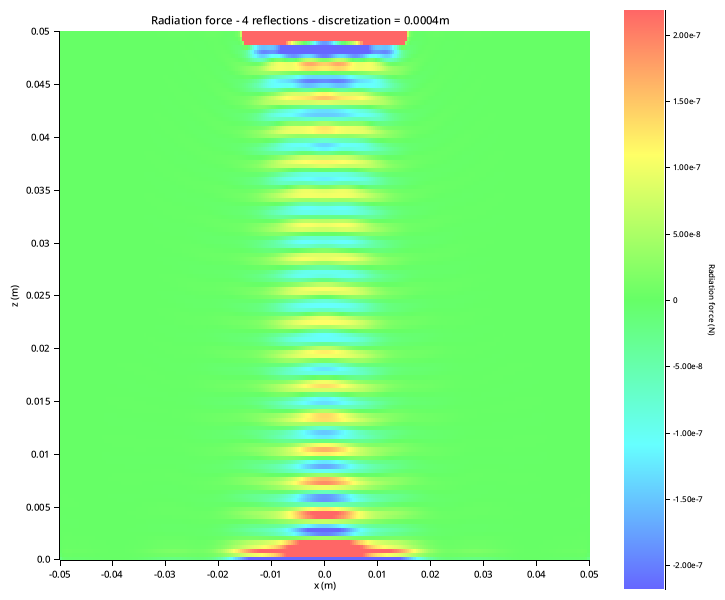
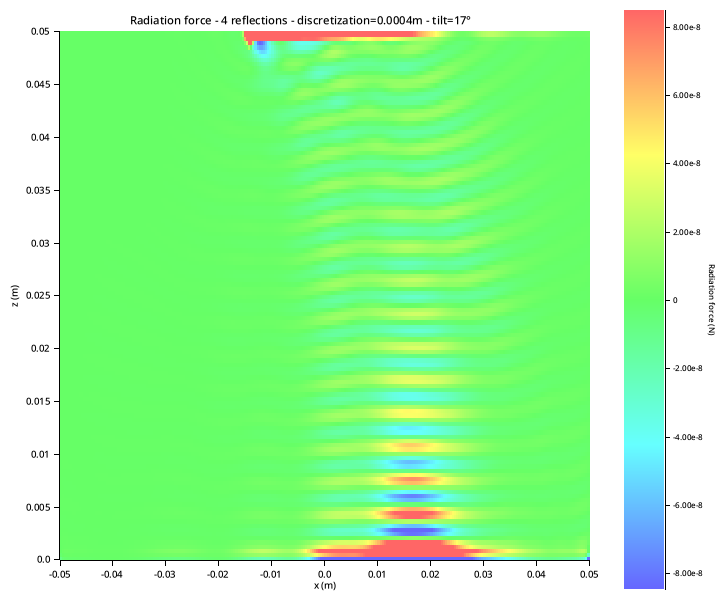
+transducer inclination

diff --git a/src/matrix_method/pressure_field.rs b/src/matrix_method/pressure_field.rs
@@ -1,4 +1,4 @@
-use ndarray::{Array1, Array2};
+use ndarray::{array, Array1, Array2};
 
 use super::*;
 
@@ -18,6 +18,7 @@ pub fn compute_pressure_field(simulation_params: impl Into<SimulationParameters>
         transducer_area,
         hole_area,
         u_0,
+        inclination,
         reflector_area,
         omega,
         wavenumber,
@@ -25,6 +26,7 @@ pub fn compute_pressure_field(simulation_params: impl Into<SimulationParameters>
         d,
         ..
     }: SimulationParameters = simulation_params.into();
+    let inclination = inclination * PI / 180.0; // convert deg to rad
 
     // Array indices
     let N: usize = ((2.0 * R) / disc) as usize;
@@ -35,7 +37,9 @@ pub fn compute_pressure_field(simulation_params: impl Into<SimulationParameters>
     // Creation of grid, indices, and distance arrays
     let x: Array1<f64> = Array1::linspace(x_min, x_max, L);
     let z: Array1<f64> = Array1::linspace(z_min, z_max, Z);
-    let transducer: Array1<f64> = Array1::linspace(-R, R, N);
+    let transducer: Array1<(f64, f64)> = Array1::linspace(-R, R, N)
+        .map(|x| rotation_matrix(inclination).dot(&array![[*x], [0.0]]))
+        .map(|x| (x[[0, 0]], x[[1, 0]] + R * inclination.abs().sin() + z_max));
 
     // Create zeroed distance arrays in memory
     let mut r_nm: Array2<f64> = Array2::zeros((N, M));
@@ -47,7 +51,8 @@ pub fn compute_pressure_field(simulation_params: impl Into<SimulationParameters>
         let mut q = 0;
         for j in 0..L {
             for k in 0..Z {
-                r_nm[[i, q]] = ((transducer[i] - x[j]).powi(2) + (z_max - z[k]).powi(2)).sqrt();
+                let (tx, tz) = transducer[i];
+                r_nm[[i, q]] = ((tx - x[j]).powi(2) + (tz - z[k]).powi(2)).sqrt();
                 q += 1;
             }
         }
@@ -67,7 +72,8 @@ pub fn compute_pressure_field(simulation_params: impl Into<SimulationParameters>
     // Calculate distance array r_in
     for i in 0..N {
         for j in 0..L {
-            r_in[[i, j]] = ((transducer[i] - x[j]).powi(2) + (z_max - z_min).powi(2)).sqrt();
+            let (tx, tz) = transducer[i];
+            r_in[[i, j]] = ((tx - x[j]).powi(2) + (tz - z_min).powi(2)).sqrt();
         }
     }
 
@@ -137,6 +143,12 @@ pub fn compute_pressure_field(simulation_params: impl Into<SimulationParameters>
         .expect("Failed to reshape pressure field")
         .t()
         .to_owned()
+}
+
+/* HELPERS */
+
+fn rotation_matrix(theta: f64) -> Array2<f64> {
+    array![[theta.cos(), -theta.sin()], [theta.sin(), theta.cos()]]
 }
 
 /// list all the transfer matrices necessary for the nth reflection of the wave and return their product

diff --git a/src/plot/field.rs b/src/plot/field.rs
@@ -36,6 +36,7 @@ fn draw_field(
         z_max,
         nb_of_reflection,
         disc,
+        inclination,
         ..
     }: SimulationParametersArgs,
     (zoom, saturation): (Option<Range<f64>>, f64),
@@ -48,7 +49,9 @@ fn draw_field(
         .x_label_area_size(30)
         .y_label_area_size(50)
         .caption(
-            format!("{field_type} - {nb_of_reflection} reflections - discretization = {disc}m"),
+            format!(
+                "{field_type} - {nb_of_reflection} reflections - discretization={disc}m - tilt={inclination:.0}°"
+            ),
             ("sans-serif", 14),
         )
         .build_cartesian_2d(x_min..x_max, z_min..z_max)?;

diff --git a/src/plot/graph.rs b/src/plot/graph.rs
@@ -17,6 +17,8 @@ pub fn graph_field(
         z_max,
         freq,
         sphere_radius,
+        inclination,
+        curvature,
         ..
     } = sp;
 
@@ -74,7 +76,7 @@ pub fn graph_field(
         .draw()?;
 
     // verification
-    if field_type == FieldType::RadiationForce {
+    if field_type == FieldType::RadiationForce && inclination == 0.0 && curvature == 0.0 {
         let k = 2.0 * PI * freq.re / C.re;
         chart.draw_series(LineSeries::new(
             data.iter().map(|&(z, _)| {

diff --git a/src/main.rs b/src/main.rs
@@ -26,7 +26,7 @@ fn main() {
         hole_radius: 2.0 * MM,
         freq: Complex::new(56000.0, 0.0),
         u_0: 0.0000060,
-        inclination: 0.0,
+        inclination: 17.0,
         curvature: 0.0,
         sphere_radius: 0.1 * MM, // wavelength=6.1mm
     };
